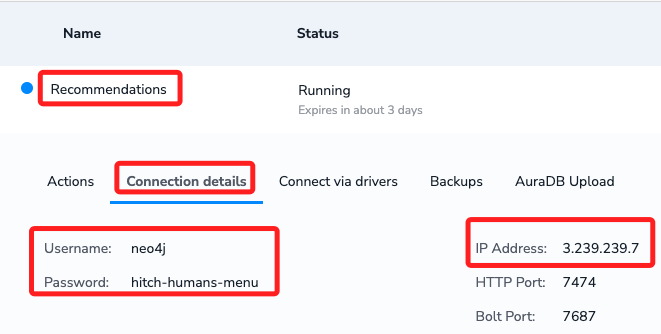
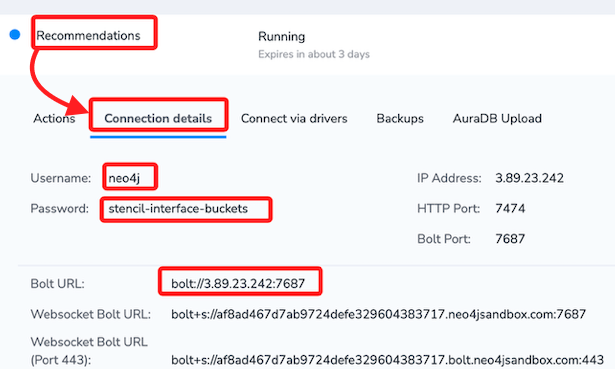
s999

diff --git a/D21_neo4j/01_專案 Streamlit_ChatBot/README.md b/D21_neo4j/01_專案 Streamlit_ChatBot/README.md
@@ -130,7 +130,7 @@ _這是一個完整的專案，可在本地、Codespace、Streamlit 服務器上
 
 <br>
 
-14. 退出運行 `control+c` 並開啟 VSCode。
+14. 使用組合鍵 `control+c` 退出運行，然後開啟 VSCode 並再次運行。
 
     ```bash
     code . && streamlit run bot.py
@@ -140,14 +140,14 @@ _這是一個完整的專案，可在本地、Codespace、Streamlit 服務器上
 
 ## 建立 LLM 實體
 
-1. 進入 [OpenAI 官網]( platform.openai.com) 取得 API Key，這裡先跳過。
+1. 進入 [OpenAI 官網]( platform.openai.com) 取得 API Key，這裡先跳過說明，假設已取得。
 
 <br>
 
-2. 在敏感資訊部分，使用 `.env` 來儲存 `OPENAI_API_KEY` 及 `OPENAI_MODEL` 等變數，而模型部分先運行 `GPT-3.5 Turbo` 的 `gpt-3.5-turbo` 試試，若有付費的會員可換 `GPT-4` 的 `gpt-4-turbo`。
+1. 在敏感資訊部分，使用 `dotenv` 處理並以 `.env` 來儲存 `OPENAI_API_KEY` 及 `OPENAI_MODEL` 等變數；其中模型版本部分可選用 `GPT-3.5 Turbo` 的 `gpt-3.5-turbo`，若有具有付費會員者可換 `GPT-4` 的 `gpt-4-turbo`，另外務必記得將 `.env` 寫入 `.gitignore`，由於 `.gitignore` 已存在於範例中且已納入 `.env`，所以這裡僅提示建立 `.env` 文件。 
 
     ```bash
-    touch .env .gitignore
+    touch .env
     ```
 
 <br>
@@ -164,7 +164,7 @@ _這是一個完整的專案，可在本地、Codespace、Streamlit 服務器上
 
 <br>
 
-4. 編輯 `.gitignore`，範例已經將 `.env` 寫入，可以不用添加了。
+4. 範例中的 `.gitignore` 文件已經將 `.env` 寫入，可以不用添加。
 
     ```json
     __pycache__
@@ -176,7 +176,7 @@ _這是一個完整的專案，可在本地、Codespace、Streamlit 服務器上
 
 <br>
 
-5. 在 `.env` 寫入敏感資訊，其中 `OPENAI_API_KEY` 部分填入自己的 `API Key`，而 `OPENAI_MODEL` 可查詢 [官網](https://platform.openai.com/docs/models/models)。
+5. 在 `.env` 寫入敏感資訊，其中 `OPENAI_API_KEY` 部分填入自己的 `API Key`，而 `OPENAI_MODEL` 可查詢 [官網](https://platform.openai.com/docs/models/models)；由於 `.env` 文件並非腳本，所以字串部分無需加上引號，等號兩側也無需間隔，但若加上間隔或引號亦無妨。
 
     ```json
     OPENAI_API_KEY=sk-...
@@ -196,6 +196,7 @@ _這是一個完整的專案，可在本地、Codespace、Streamlit 服務器上
 7. 改寫官方的 `llm.py`：將 OpenAPI 的資訊寫入。
 
     ```python
+    # llm.py
     from langchain_openai import ChatOpenAI
     from langchain_openai import OpenAIEmbeddings
     # 載入庫
@@ -237,16 +238,7 @@ _這是一個完整的專案，可在本地、Codespace、Streamlit 服務器上
 
 <br>
 
-3. 點擊名稱可展開，切換到 `Connection details` 頁籤可查看訊息，這些訊息要寫入 `.env` 文件。
-
-    ```bash
-    # Connection URL
-    3.239.239.7
-    # Username
-    neo4j
-    # Password
-    hitch-humans-menu
-    ```
+3. 點擊名稱 `Recommendations` 可展開，切換到 `Connection details` 頁籤可查看訊息，這些訊息要寫入 `.env` 文件。
 
     ![](images/img_04.png)
 
@@ -258,9 +250,9 @@ _這是一個完整的專案，可在本地、Codespace、Streamlit 服務器上
     OPENAI_API_KEY=sk-...
     OPENAI_MODEL=gpt-4-turbo
 
-    NEO4J_URI = "bolt://3.239.239.7:7687"
+    NEO4J_URI = "bolt://3.89.23.242:7687"
     NEO4J_USERNAME = "neo4j"
-    NEO4J_PASSWORD = "hitch-humans-menu"
+    NEO4J_PASSWORD = "stencil-interface-buckets"
     ```
 
 <br>
